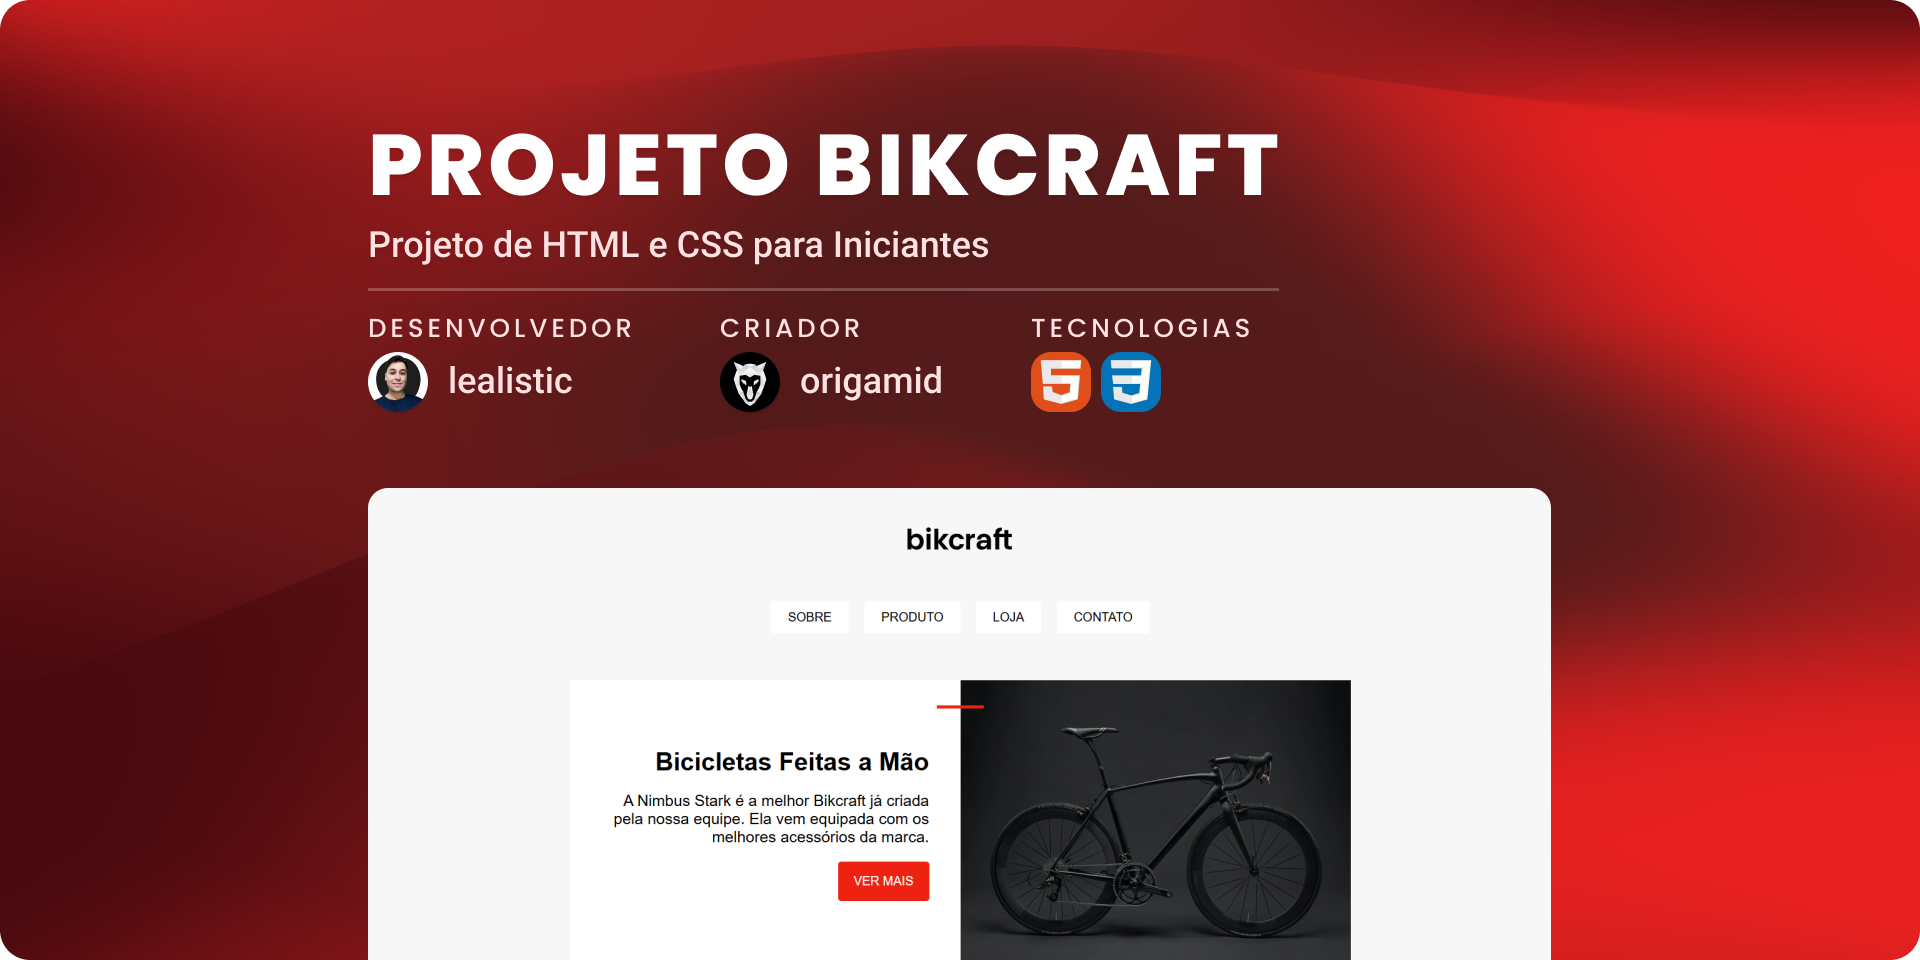
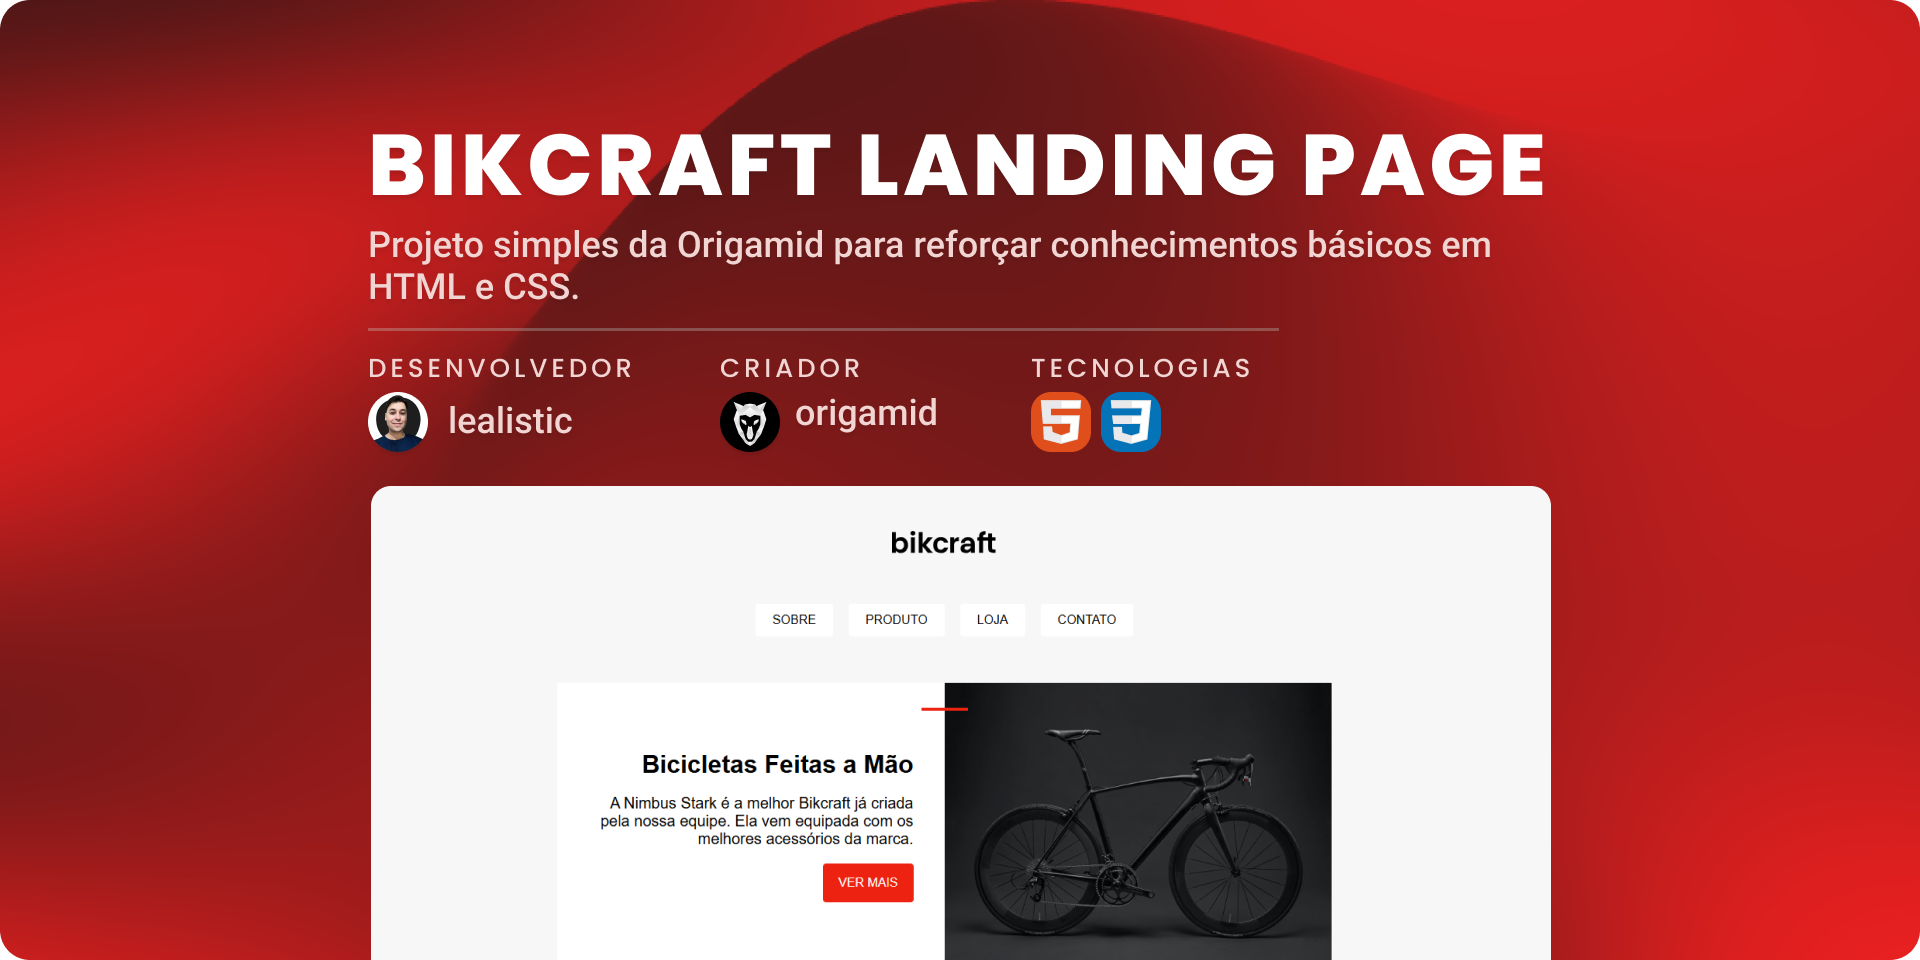
readme update

diff --git a/README.md b/README.md
@@ -14,7 +14,7 @@
 <br>
 
 <p align="center">
-  <img alt="Projeto Bikcraft" src=".github/readme-img.png" width="100%">
+  <img alt="Bikcraft Landing Page" src=".github/readme-img.png" width="100%">
 </p>
 
 ## 🚀 Tecnologias
